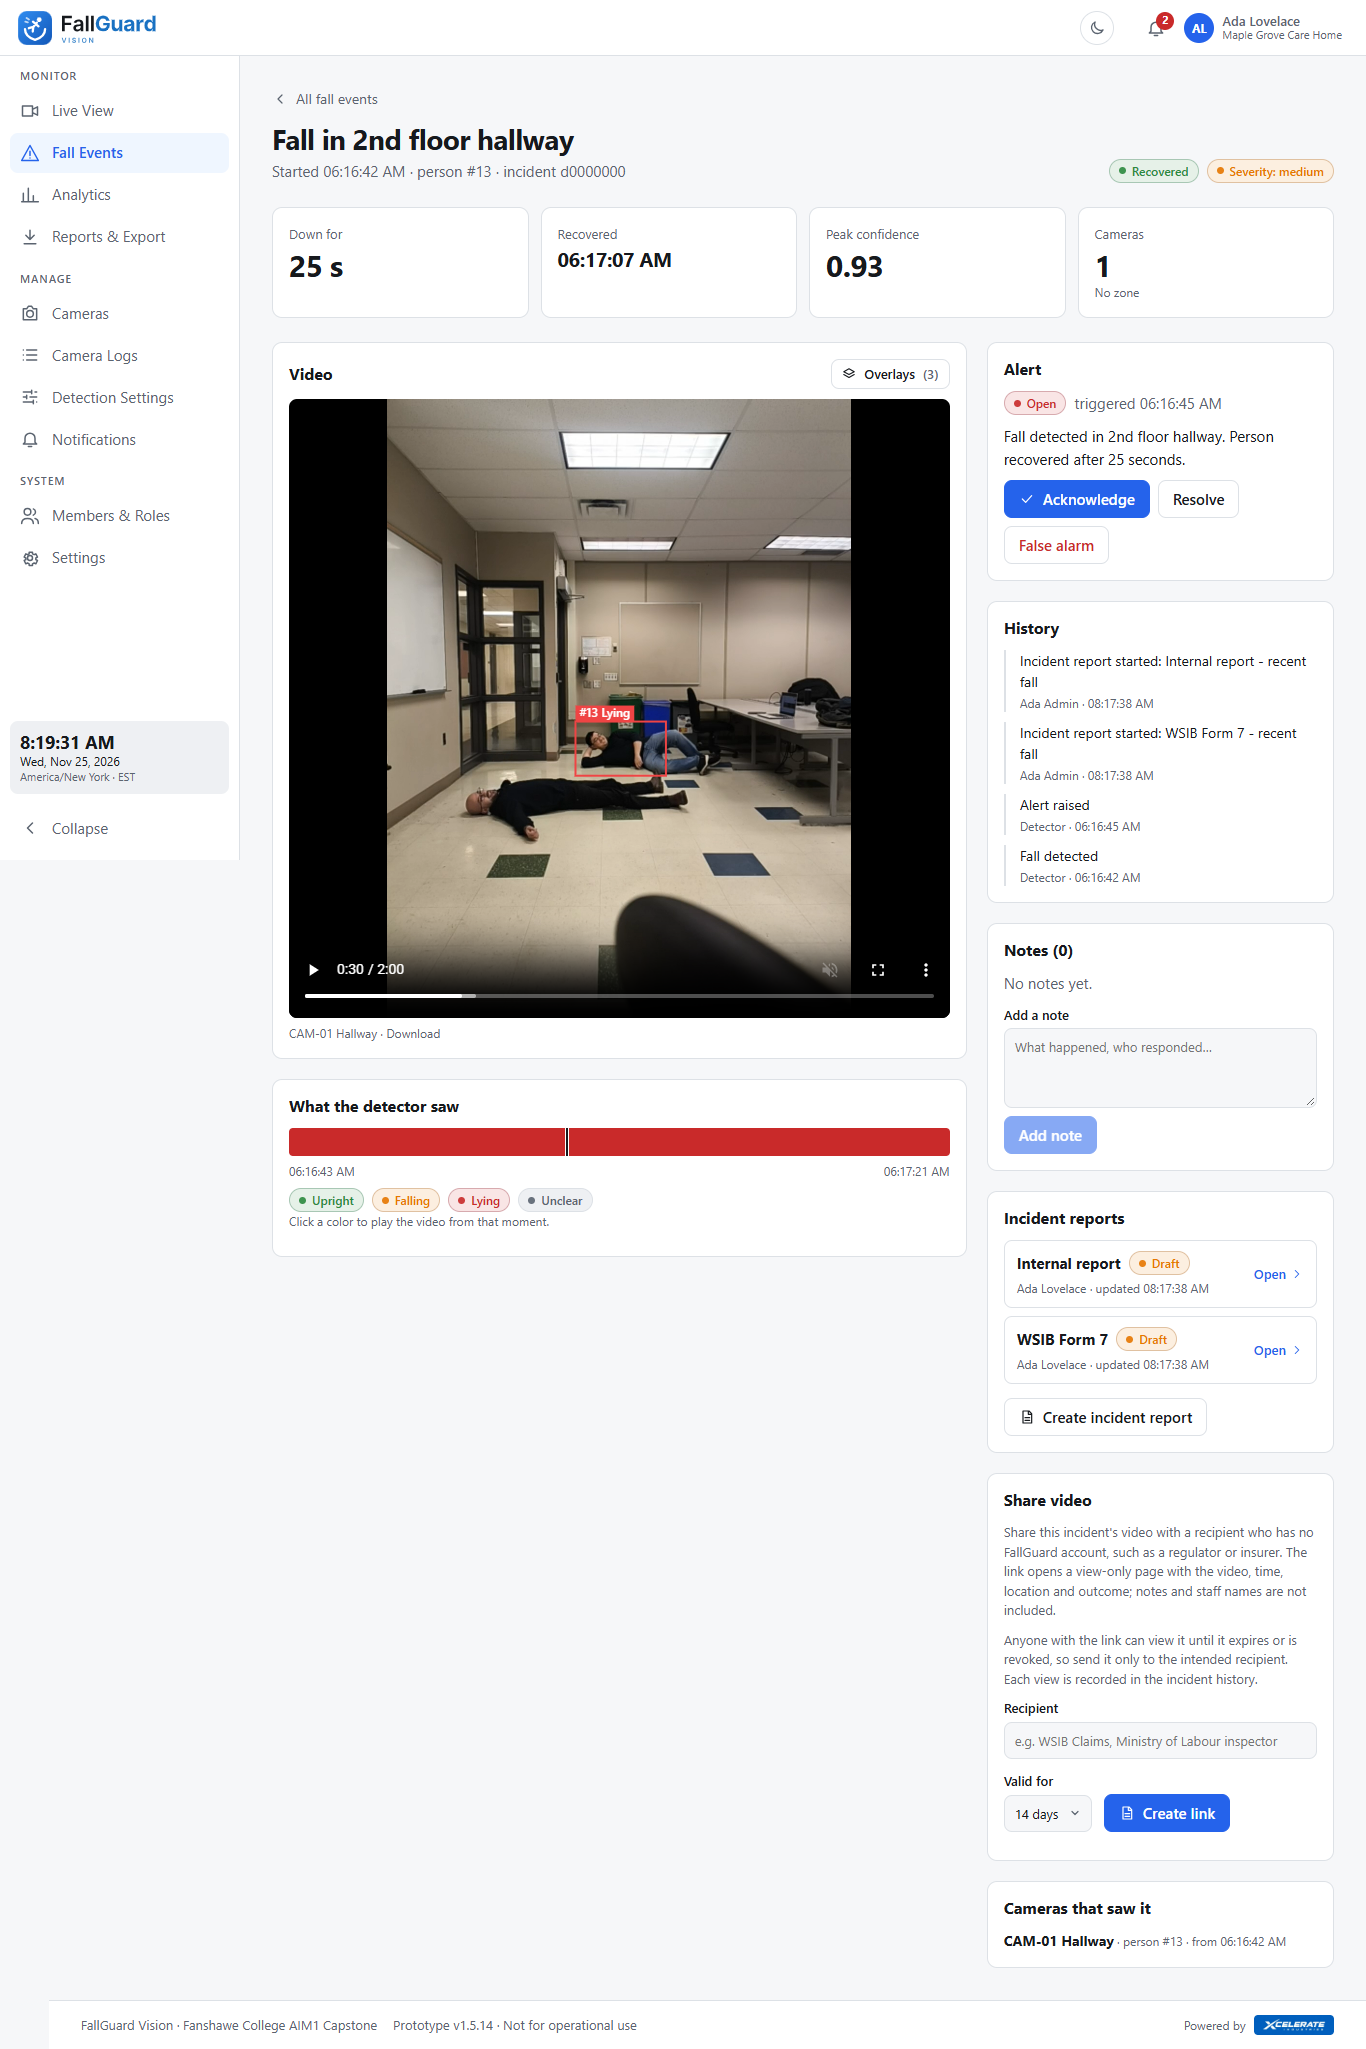
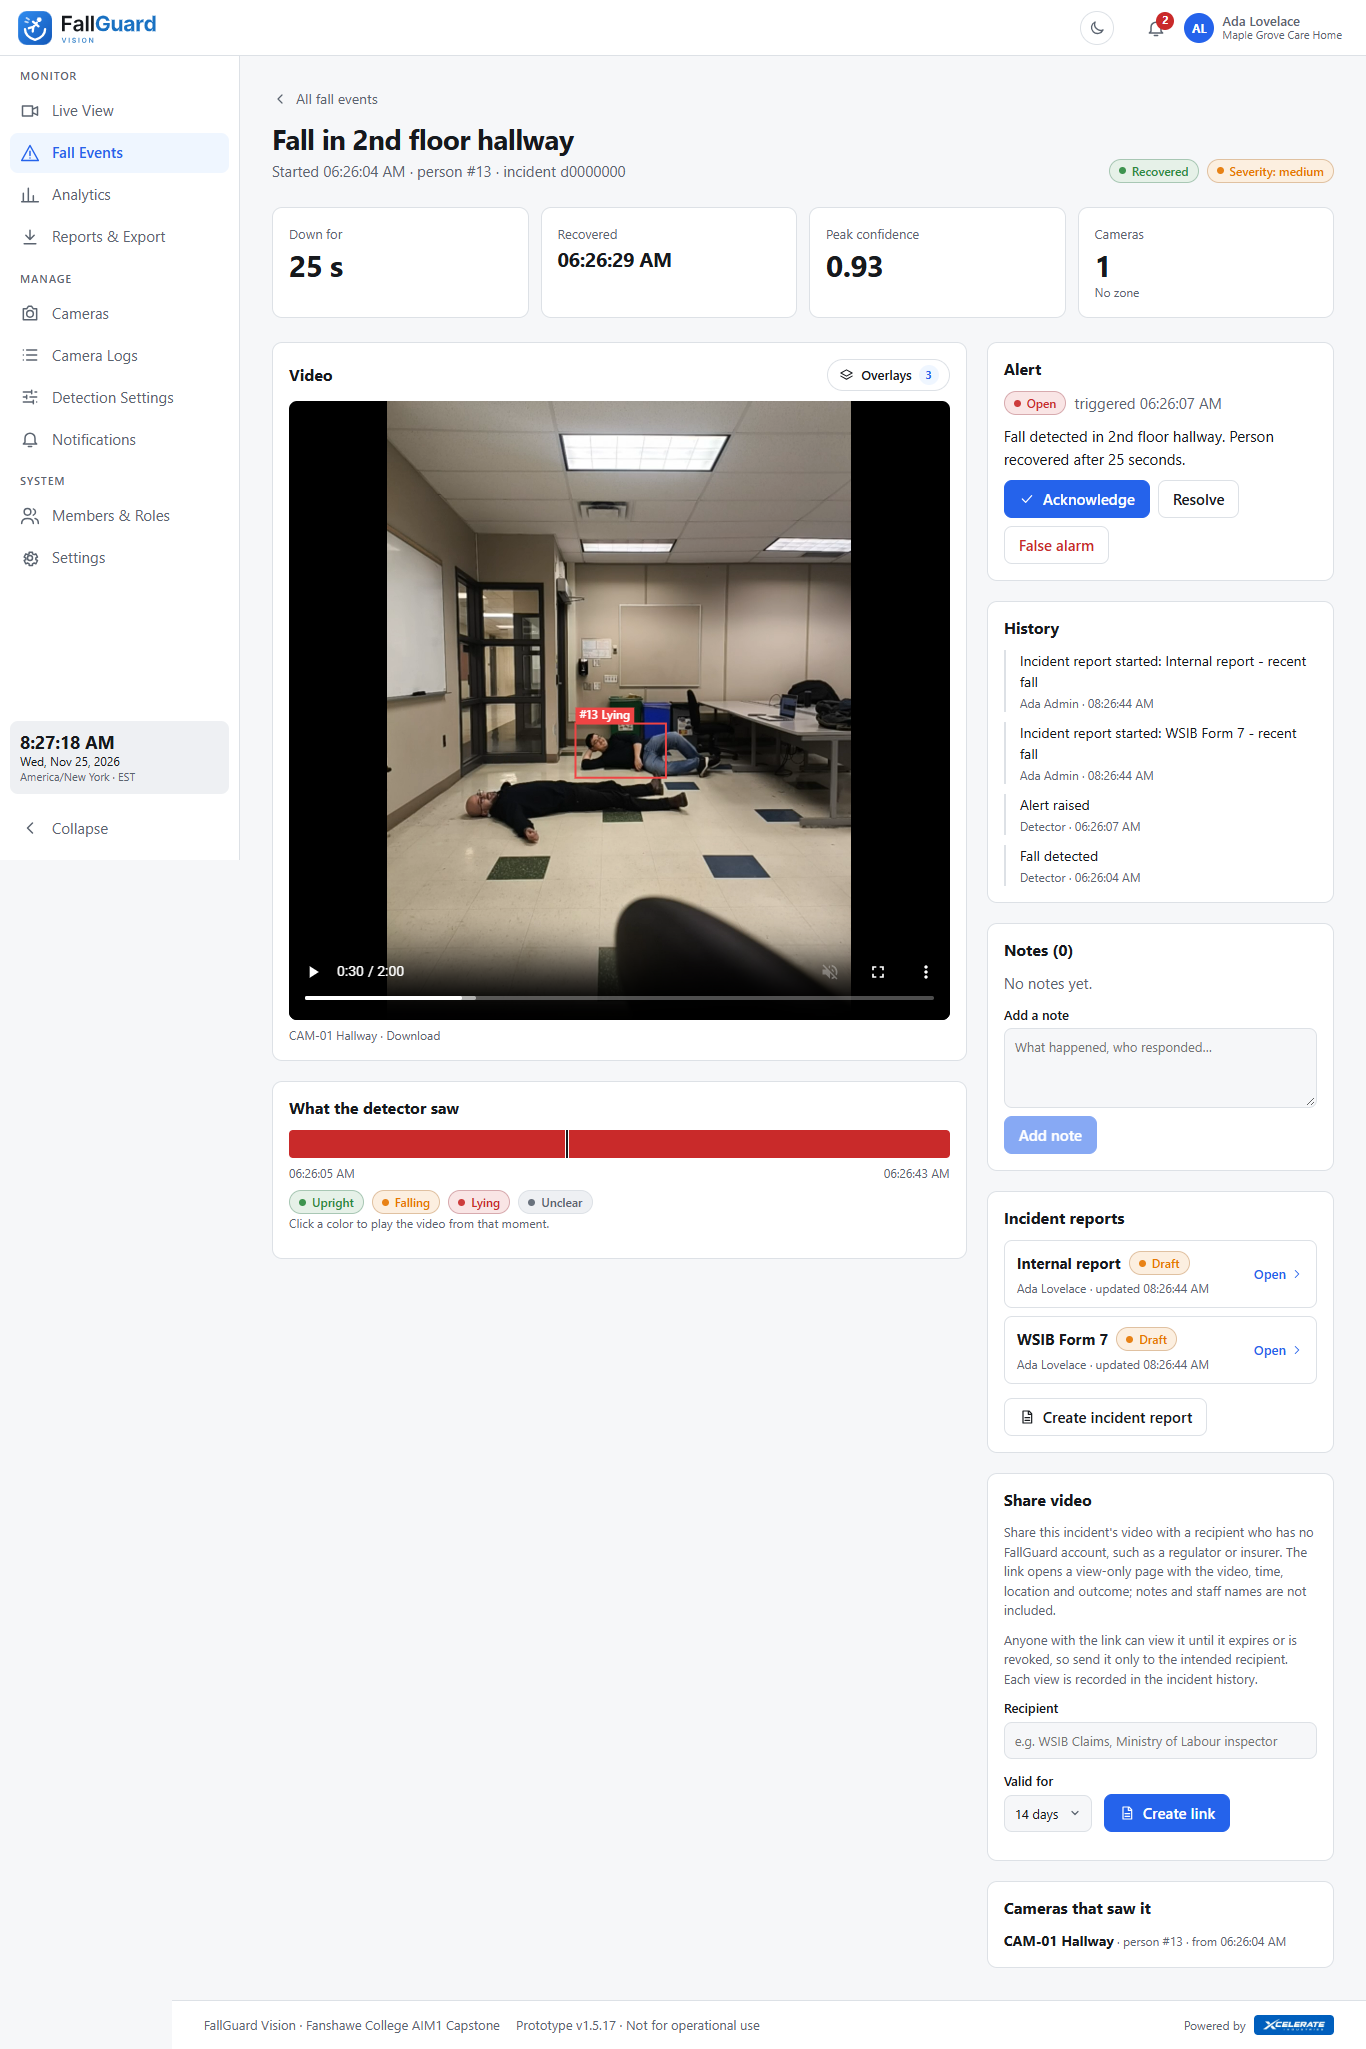
style(frontend): incident video Overlays as a clean floating list of switches
The menu had no styles on the incident page (they lived in Live View's stylesheet). Now its own
popover: a pill button with the count, a floating list with a switch per overlay (explanations
as hover tips), and Reset / Make organization default only when the choice differs. The
"default is what everyone sees" note is removed. Light and dark checked; incident screenshots refreshed.

diff --git a/fallguard-frontend/src/features/events/IncidentOverlay.tsx b/fallguard-frontend/src/features/events/IncidentOverlay.tsx
@@ -144,14 +144,14 @@ const OPTIONS: { key: keyof LiveOverlay; label: string; hint: string }[] = [
 
 const same = (a: LiveOverlay, b: LiveOverlay) => OPTIONS.every((o) => a[o.key] === b[o.key]);
 
-/** "Overlays" button of an incident's video: each overlay on/off, and the organization's default. */
+/** "Overlays" button of an incident's video: a floating list of switches, and the organization's default. */
 export function IncidentOverlayMenu({ value, onChange, orgDefault, canSetDefault, onDefaultSaved }: {
   value: LiveOverlay; onChange: (o: LiveOverlay) => void; orgDefault: LiveOverlay;
   canSetDefault: boolean; onDefaultSaved: (o: LiveOverlay) => void;
 }) {
   const [open, setOpen] = useState(false);
   const [busy, setBusy] = useState(false);
-  const [msg, setMsg] = useState<string | null>(null);
+  const [error, setError] = useState<string | null>(null);
   const ref = useRef<HTMLDivElement | null>(null);
 
   useEffect(() => {
@@ -172,51 +172,50 @@ export function IncidentOverlayMenu({ value, onChange, orgDefault, canSetDefault
   const isDefault = same(value, orgDefault);
   const saveDefault = async () => {
     setBusy(true);
-    setMsg(null);
+    setError(null);
     try {
       await api.saveIncidentOverlay(value);
       onDefaultSaved(value);
-      setMsg('Saved as the organization default.');
     } catch (e) {
-      setMsg(e instanceof Error ? e.message : String(e));
+      setError(e instanceof Error ? e.message : String(e));
     } finally {
       setBusy(false);
     }
   };
 
   return (
-    <div className="overlay-menu" ref={ref}>
-      <button className="btn btn--sm" aria-expanded={open} aria-haspopup="true" onClick={() => setOpen(!open)}
+    <div className="ovp" ref={ref}>
+      <button type="button" className="ovp__btn" aria-expanded={open} aria-haspopup="true" onClick={() => setOpen(!open)}
         title="Show this incident's person on the video">
-        <Icon name="layers" size={14} /> Overlays <span className="muted">({shown})</span>
+        <Icon name="layers" size={15} />
+        <span>Overlays</span>
+        <span className="ovp__count">{shown}</span>
       </button>
       {open && (
-        <div className="overlay-menu__panel card" role="group" aria-label="Video overlays">
-          <p className="muted overlay-menu__note" style={{ marginTop: 0 }}>Drawn for this incident's person only.</p>
-          {OPTIONS.map((o) => (
-            <label key={o.key} className="overlay-menu__option" title={o.hint}>
-              <input type="checkbox" checked={value[o.key]} onChange={(e) => onChange({ ...value, [o.key]: e.target.checked })} />
-              <span>{o.label}<small>{o.hint}</small></span>
-            </label>
-          ))}
-          <div className="overlay-menu__actions">
-            {isDefault ? (
-              <span className="muted">The organization's default</span>
-            ) : (
-              <>
-                {canSetDefault && (
-                  <button className="btn btn--sm btn--primary" disabled={busy} onClick={() => void saveDefault()}>
-                    Set as organization default
-                  </button>
-                )}
-                <button className="btn btn--sm" onClick={() => onChange(orgDefault)}>Back to default</button>
-              </>
-            )}
-          </div>
-          {msg && <p className="overlay-menu__note" role="status">{msg}</p>}
-          <p className="muted overlay-menu__note">
-            The default is what everyone sees first on every incident video{canSetDefault ? '' : ' (admins set it)'}.
-          </p>
+        <div className="ovp__panel" role="group" aria-label="Video overlays">
+          <div className="ovp__head">This incident's person</div>
+          <ul className="ovp__list">
+            {OPTIONS.map((o) => (
+              <li key={o.key}>
+                <label className="ovp__item" title={o.hint}>
+                  <span>{o.label}</span>
+                  <input type="checkbox" role="switch" className="ovp__switch" checked={value[o.key]}
+                    onChange={(e) => onChange({ ...value, [o.key]: e.target.checked })} />
+                </label>
+              </li>
+            ))}
+          </ul>
+          {(!isDefault || error) && (
+            <div className="ovp__foot">
+              <button type="button" className="ovp__link" onClick={() => onChange(orgDefault)}>Reset</button>
+              {canSetDefault && (
+                <button type="button" className="ovp__link ovp__link--primary" disabled={busy} onClick={() => void saveDefault()}>
+                  {busy ? 'Saving…' : 'Make organization default'}
+                </button>
+              )}
+            </div>
+          )}
+          {error && <p className="ovp__error" role="alert">{error}</p>}
         </div>
       )}
     </div>

diff --git a/fallguard-frontend/src/features/events/events.css b/fallguard-frontend/src/features/events/events.css
@@ -73,3 +73,34 @@
 .ev-video-head .section-title { margin: 0; }
 .ev-video__stage { position: relative; }
 .ev-overlay { position: absolute; inset: 0; width: 100%; height: 100%; pointer-events: none; border-radius: 8px; }
+
+/* Incident video "Overlays": a button and a floating list of switches */
+.ovp { position: relative; }
+.ovp__btn { display: inline-flex; align-items: center; gap: 7px; height: 32px; padding: 0 10px 0 11px; border: 1px solid var(--border);
+  border-radius: 999px; background: var(--surface); color: var(--text); font-size: 13px; font-weight: 600; transition: background .15s, border-color .15s; }
+.ovp__btn:hover, .ovp__btn[aria-expanded="true"] { background: var(--surface-2); border-color: color-mix(in srgb, var(--accent) 35%, var(--border)); }
+.ovp__count { min-width: 20px; height: 20px; padding: 0 6px; border-radius: 999px; display: inline-grid; place-items: center;
+  background: var(--accent-soft); color: var(--accent); font-size: 11px; font-weight: 700; }
+.ovp__panel { position: absolute; right: 0; top: calc(100% + 8px); z-index: 30; width: 248px; padding: 6px; border: 1px solid var(--border);
+  border-radius: 14px; background: var(--surface); box-shadow: 0 12px 32px rgb(0 0 0 / .16), 0 2px 6px rgb(0 0 0 / .08);
+  transform-origin: top right; animation: ovp-in .14s ease-out; }
+@keyframes ovp-in { from { opacity: 0; transform: translateY(-4px) scale(.98); } }
+.ovp__head { padding: 6px 10px 4px; font-size: 11px; font-weight: 600; letter-spacing: .04em; text-transform: uppercase; color: var(--text-muted); }
+.ovp__list { list-style: none; margin: 0; padding: 0; }
+.ovp__item { display: flex; align-items: center; justify-content: space-between; gap: 12px; padding: 7px 10px; border-radius: 9px;
+  font-size: 14px; cursor: pointer; }
+.ovp__item:hover { background: var(--surface-2); }
+.ovp__switch { appearance: none; flex-shrink: 0; position: relative; width: 30px; height: 18px; margin: 0; border-radius: 999px;
+  background: color-mix(in srgb, var(--text-muted) 35%, var(--surface-2)); cursor: pointer; transition: background .15s; }
+.ovp__switch::after { content: ""; position: absolute; top: 2px; left: 2px; width: 14px; height: 14px; border-radius: 50%; background: #fff;
+  box-shadow: 0 1px 2px rgb(0 0 0 / .25); transition: transform .15s; }
+.ovp__switch:checked { background: var(--accent); }
+.ovp__switch:checked::after { transform: translateX(12px); }
+.ovp__switch:focus-visible { outline: 2px solid var(--accent); outline-offset: 2px; }
+.ovp__foot { display: flex; justify-content: space-between; gap: 8px; margin-top: 4px; padding: 8px 10px 4px; border-top: 1px solid var(--border); }
+.ovp__link { padding: 0; font-size: 12px; font-weight: 600; color: var(--text-muted); }
+.ovp__link:hover { color: var(--text); }
+.ovp__link--primary { color: var(--accent); }
+.ovp__link--primary:hover { color: var(--accent); text-decoration: underline; }
+.ovp__error { margin: 4px 10px; font-size: 12px; color: var(--danger); }
+@media (prefers-reduced-motion: reduce) { .ovp__panel { animation: none; } .ovp__switch, .ovp__switch::after, .ovp__btn { transition: none; } }
